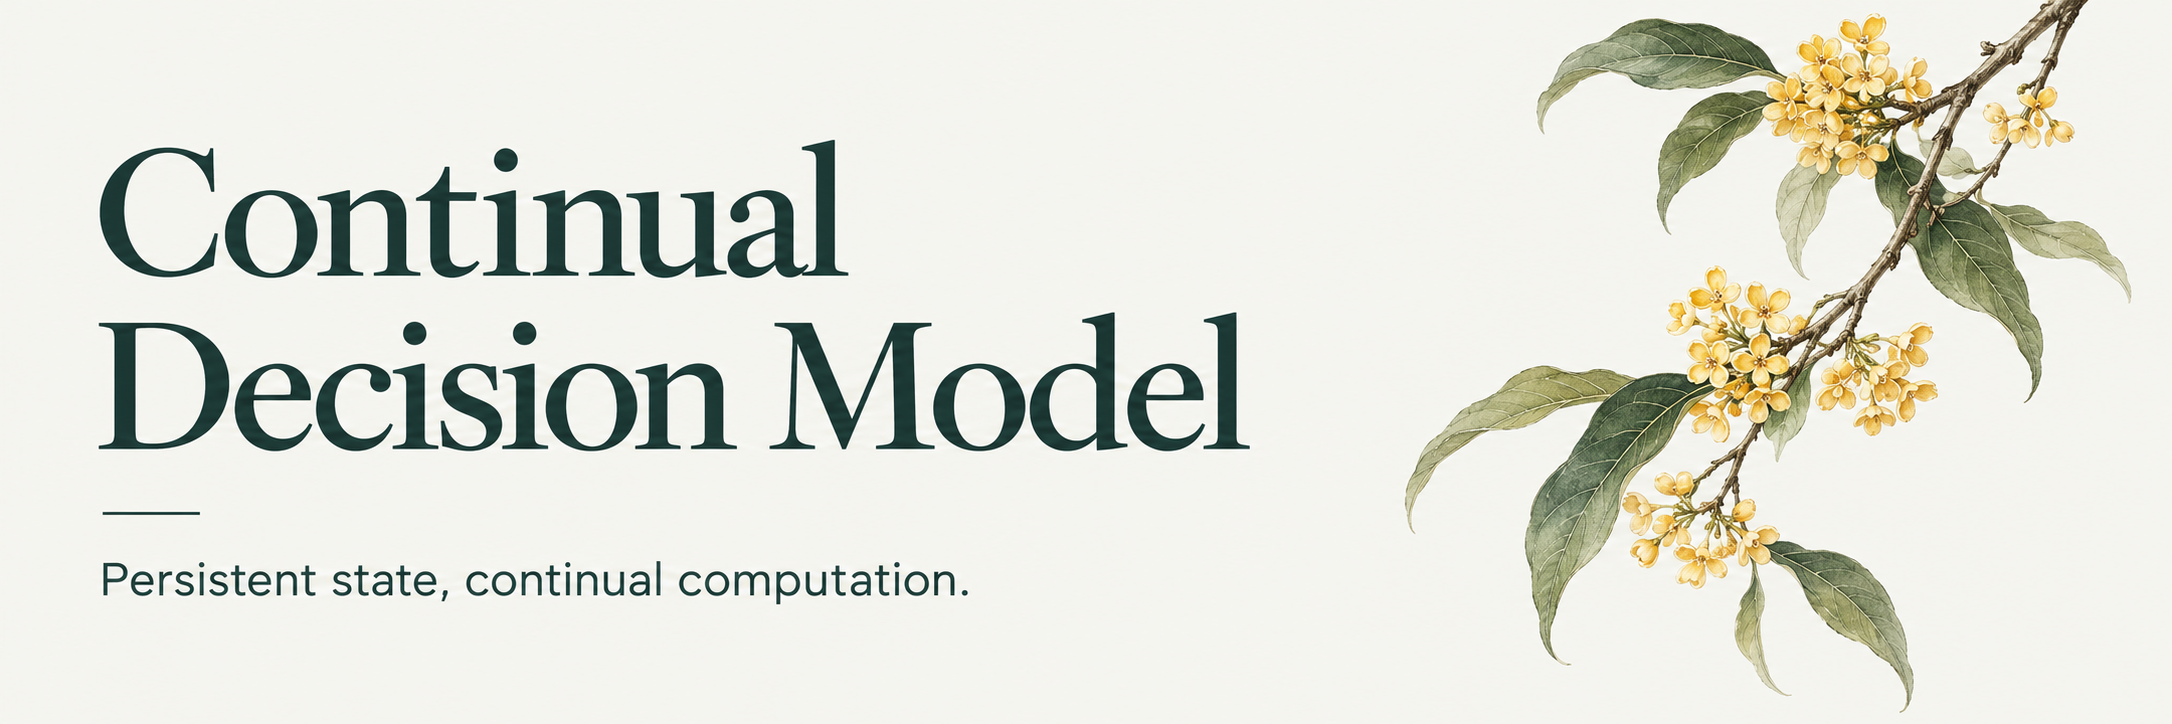
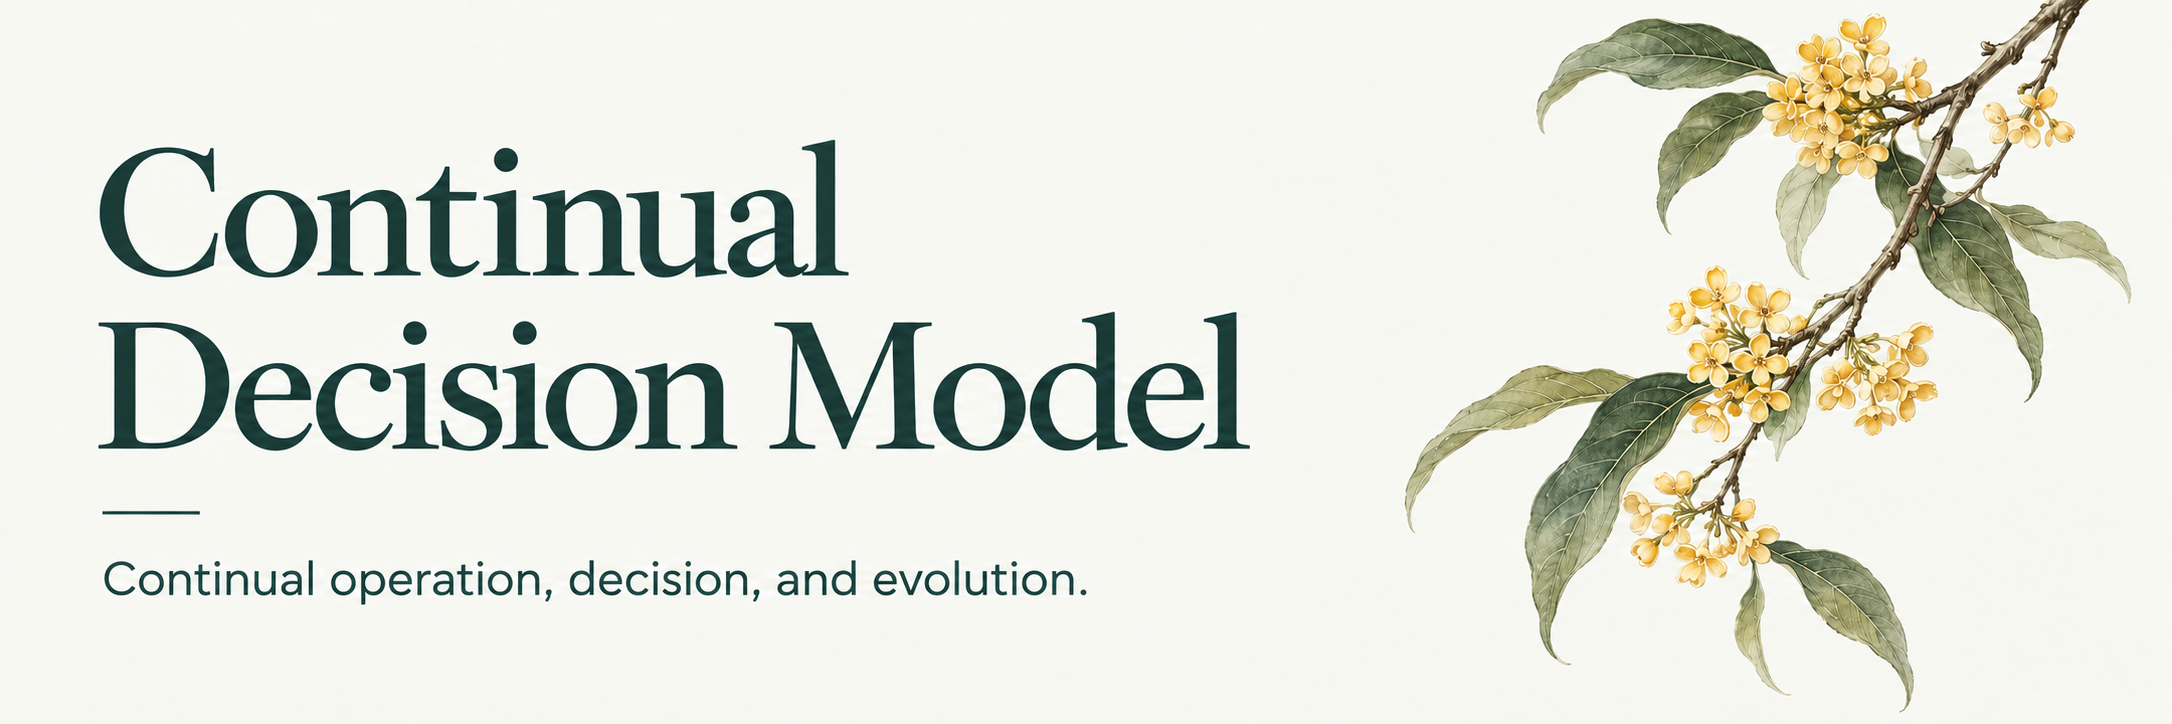
Express the project vision in the osmanthus masthead

diff --git a/README.md b/README.md
@@ -1,5 +1,5 @@
 <p>
-  <img src="assets/readme-header.png" alt="Continual Decision Model — Persistent state, continual computation." width="1280">
+  <img src="assets/readme-header.png" alt="Continual Decision Model — Continual operation, decision, and evolution." width="1280">
 </p>
 
 [Research](RESEARCH.md) · [Model](DESIGN.md) · [Experiments](EXPERIMENTS.md) · [Run](RUNNING.md) · [References](ref/README.md)
